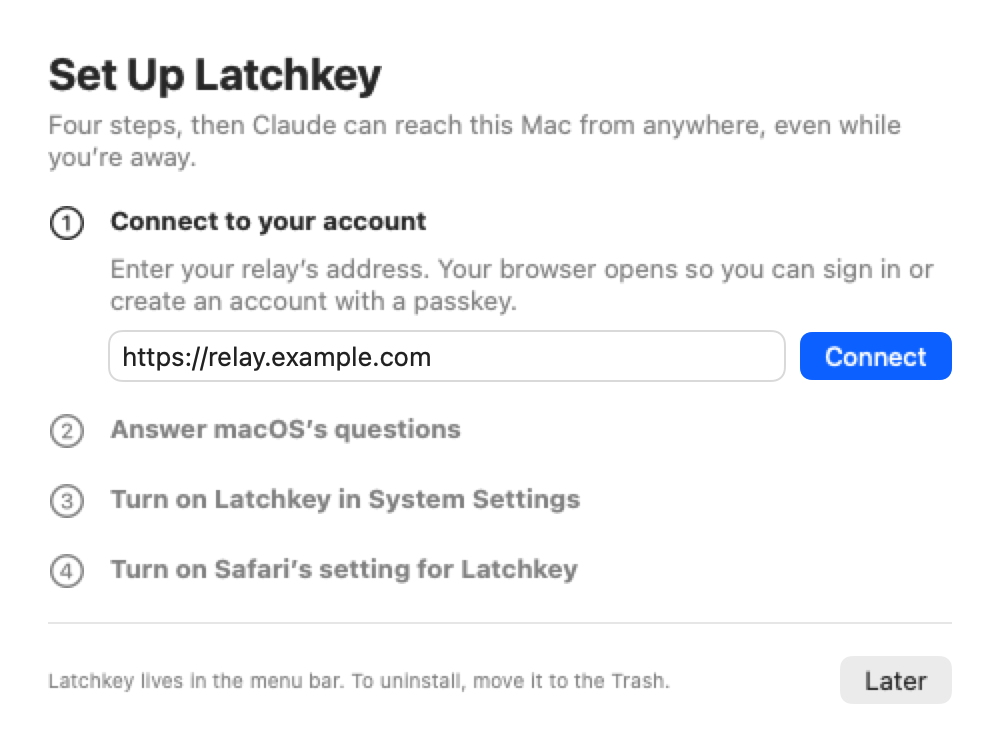
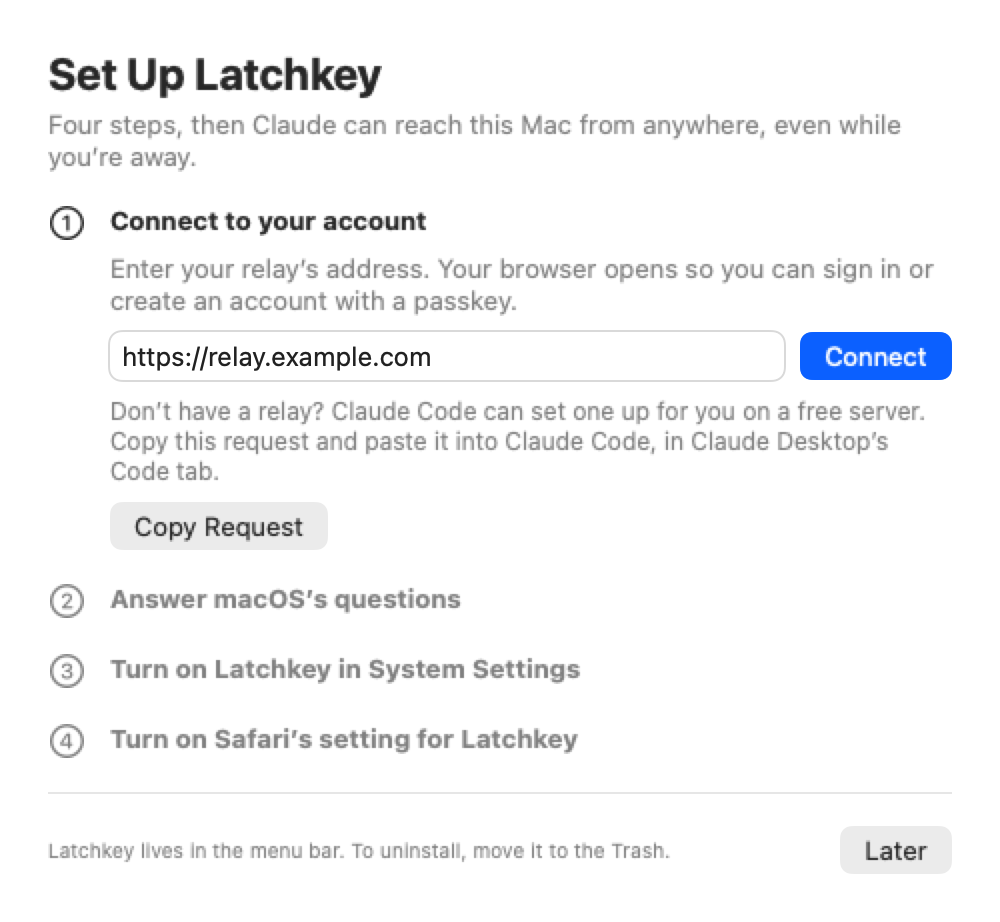
Spec 009 built except what waits on Toni: a relay without an email server (setup code, operator's recovery code), update rollback signal, database copy before migrations, images for Intel and Arm with every deploy, self-hosting docs, and Copy Request for Claude Code in setup; app 0.8.60

diff --git a/macos/App/Views.swift b/macos/App/Views.swift
@@ -325,6 +325,7 @@ struct SetupView: View {
     @State private var relay = ""
     @State private var working = false
     @State private var opened: String?
+    @State private var copiedRequest = false
     /// A step shown open whatever its state, for the size test.
     var showing: String?
     /// The relay address shown in place of the default, for pictures (the default is private).
@@ -352,6 +353,20 @@ struct SetupView: View {
                 }
                 if let error = model.lastError {
                     Text(error).foregroundStyle(.red).fixedSize(horizontal: false, vertical: true)
+                }
+                // Spec 009 FR-903: Claude Code sets up a relay by following the guide.
+                Text(
+                    "Don’t have a relay? Claude Code can set one up for you on a free server. Copy this request and paste it into Claude Code, in Claude Desktop’s Code tab."
+                )
+                .font(.callout).foregroundStyle(.secondary).fixedSize(horizontal: false, vertical: true)
+                HStack {
+                    Button("Copy Request") {
+                        SetupRequest.copy()
+                        copiedRequest = true
+                    }
+                    if copiedRequest {
+                        Label("Copied", systemImage: "checkmark").foregroundStyle(.secondary)
+                    }
                 }
             }
             step("questions", "Answer macOS’s questions") {

diff --git a/macos/Tests/SetupRequestTests.swift b/macos/Tests/SetupRequestTests.swift
@@ -1,0 +1,22 @@
+import AppKit
+import Testing
+
+@testable import Latchkey
+
+/// "Don't have a relay?" in setup: the request the Owner copies into Claude Code (spec 009
+/// FR-903, plan D9).
+struct SetupRequestTests {
+    @Test func pointsClaudeCodeAtTheGuide() {
+        #expect(
+            SetupRequest.text.contains(
+                "https://raw.githubusercontent.com/tonimelisma/latchkey/main/docs/setup-with-claude.md"))
+        #expect(SetupRequest.text.hasPrefix("Set up a Latchkey relay for me"))
+    }
+
+    @Test func copiesToThePasteboard() {
+        let board = NSPasteboard.withUniqueName()  // never the Owner's own clipboard
+        defer { board.releaseGlobally() }
+        SetupRequest.copy(to: board)
+        #expect(board.string(forType: .string) == SetupRequest.text)
+    }
+}

diff --git a/macos/App/SetupRequest.swift b/macos/App/SetupRequest.swift
@@ -1,0 +1,13 @@
+import AppKit
+
+/// The request an Owner without a relay pastes into Claude Code, which then sets one up by
+/// following the guide in the repository (spec 009 FR-903, plan D9).
+enum SetupRequest {
+    static let guide = "https://raw.githubusercontent.com/tonimelisma/latchkey/main/docs/setup-with-claude.md"
+    static let text = "Set up a Latchkey relay for me. Follow the instructions at \(guide)"
+
+    static func copy(to board: NSPasteboard = .general) {
+        board.clearContents()
+        board.setString(text, forType: .string)
+    }
+}

diff --git a/docs/STATUS.md b/docs/STATUS.md
@@ -48,8 +48,15 @@ on a server. Spec 009 and the guide Claude Code follows (docs/setup-with-claude.
 for Toni's review. Default host: Google Cloud's free server (Toni, 2026-10-31). Lost passkeys are
 replaced through Claude Code with a one-time recovery code (Toni). The repository is public
 (2026-10-31). Plan and tasks written
-(specs/009-easy-relay-setup/plan.md, tasks.md); next: the relay tasks T1–T7, then the guide's real
-run on Google Cloud, then the app's "Set one up with Claude". Open: checking on a fresh Google
+(specs/009-easy-relay-setup/plan.md, tasks.md). Built (0.8.60, 2026-10-31): the relay's setup
+code (no email server needed), the operator's recovery-code command, the ready signal for
+Podman's update rollback, a database copy before migrations, the deploy publishing images for
+Intel and Arm servers, the self-hosting docs, and the app's "Copy Request" for Claude Code in
+setup; the session cookie was already host-bound. Tested: unit tests, and real Chrome claiming a
+relay with its setup code and recovering with the operator's code. Waiting on Toni: one browser
+click to let the GitHub CLI publish images (`gh auth refresh -s write:packages`), then making the
+package public; until then the relay isn't deployed (publishing is part of every deploy) and the
+guide's real run on Google Cloud (T9) can't start. Open: checking on a fresh Google
 account that the free server's address costs nothing and whether the trial must be upgraded.
 
 Nothing left behind (Toni, 2026-10-27; app 0.8.32): after headless Chrome ran two days and

diff --git a/README.md b/README.md
@@ -93,7 +93,9 @@ redraws them).
    Accessibility; and Safari's "Allow JavaScript from Apple Events"). Right after you connect,
    Latchkey asks each macOS question in turn, then opens each System Settings page you need, one
    after another, as you turn Latchkey on. Later, the
-   Permissions tab in Latchkey's Settings window shows each one and whether it's allowed.
+   Permissions tab in Latchkey's Settings window shows each one and whether it's allowed. No
+   relay yet? The first step's Copy Request gives you a request to paste into Claude Code, which
+   sets one up for you on a free server ([docs/setup-with-claude.md](docs/setup-with-claude.md)).
 2. **Connect Claude.** On claude.ai, open Settings → Connectors → Add custom connector, and enter
    your relay's address followed by `/mcp`, for example `https://relay.example.com/mcp`. Sign
    in with your passkey and click Allow. The connector then appears in Claude Desktop and the
